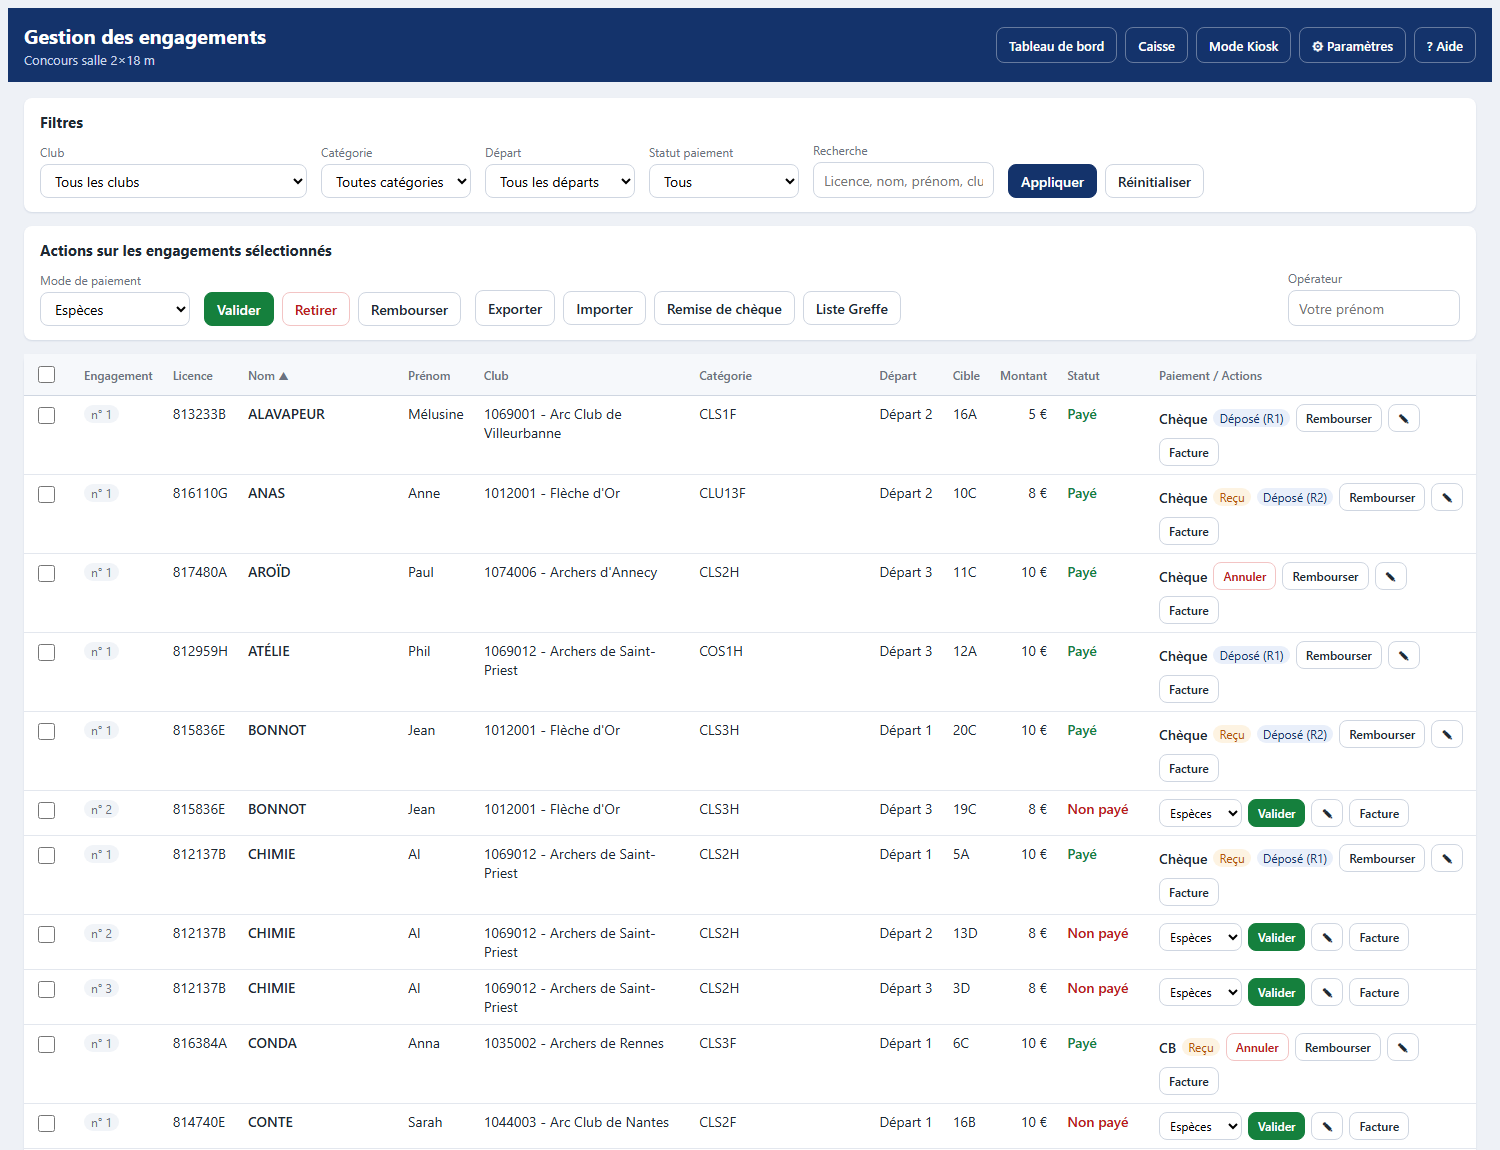
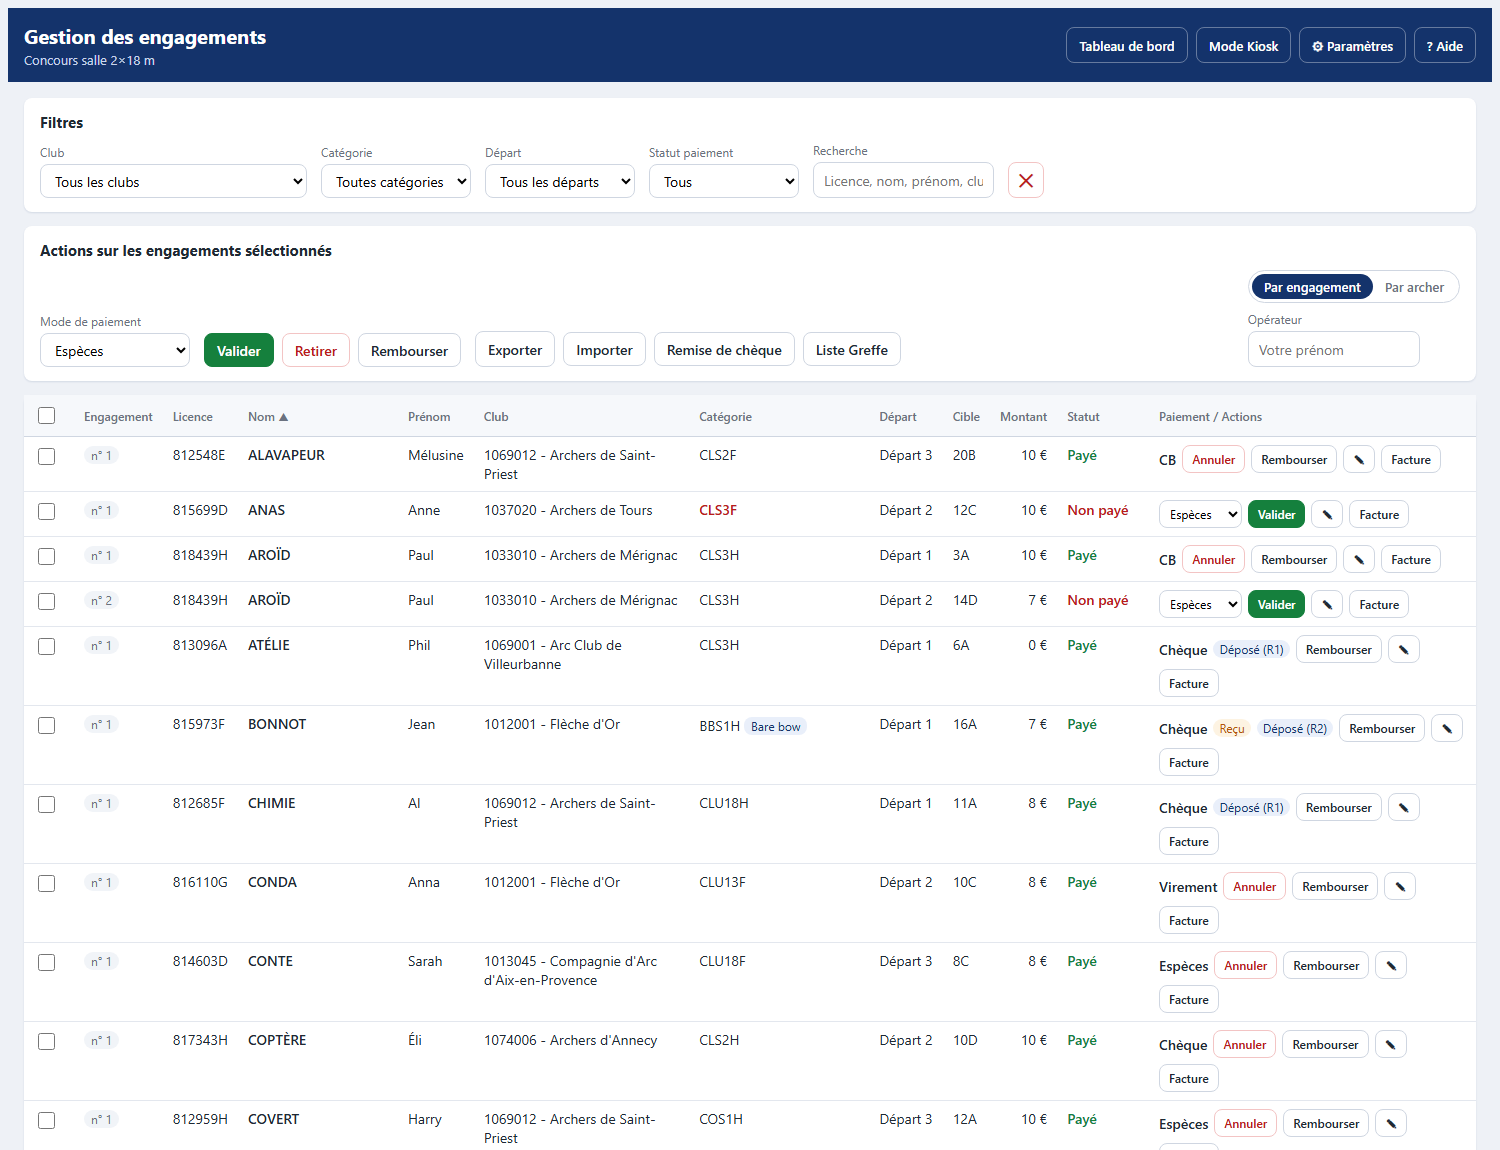
Version 1.2.4 : README et captures à jour, bouton + des tarifs toujours visible
- Version 1.2.4 (version.json, notes de mise à jour, README)
- README : nouvelle partie « Le passage au greffe », nouveautés 1.2.4,
  captures refaites (liste, vue par archer, tableau de bord, caisse, tarifs,
  aide) avec le concours fictif
- Tarifs : boutons + et - toujours affichés (+ grisé à la limite, avec
  explication) ; nombre de départs lu dans le concours, les sessions de
  qualification et les départs des archers

diff --git a/assets/css/config_tarifs.css b/assets/css/config_tarifs.css
@@ -220,8 +220,9 @@ body {
 .tarif-tier-buttons { width: 1%; white-space: nowrap; }
 
 .tarif-tier-btn {
-    width: 24px;
-    height: 24px;
+    width: 30px;
+    height: 30px;
+    font-size: 18px !important;
     padding: 0;
     border: 1px solid var(--line-strong, #cbd5e1);
     border-radius: 999px;
@@ -233,8 +234,9 @@ body {
     cursor: pointer;
 }
 
-.tarif-tier-btn:hover:not(:disabled) { background: #eef2ff; }
-.tarif-tier-btn:disabled { opacity: .35; cursor: default; }
+.tarif-tier-btn[data-tier-add]:not(:disabled) { background: #14336b; border-color: #14336b; color: #fff; }
+.tarif-tier-btn:hover:not(:disabled) { filter: brightness(1.15); }
+.tarif-tier-btn:disabled { opacity: .5; cursor: not-allowed; }
 
 .delete-btn {
     border: none;

diff --git a/assets/js/config_tarifs.js b/assets/js/config_tarifs.js
@@ -528,6 +528,9 @@ function initTarifTiers() {
 
         tables.querySelectorAll('[data-tier-add]').forEach(function(btn) {
             btn.disabled = tiers >= max;
+            btn.title = tiers >= max
+                ? 'Le concours compte ' + max + ' départs dans I@nseo : pas de départ de plus à tarifer'
+                : 'Ajouter un départ';
         });
 
         tables.querySelectorAll('[data-tier-remove]').forEach(function(btn) {

diff --git a/config_tarifs.php b/config_tarifs.php
@@ -794,9 +794,8 @@ include('Common/Templates/head.php');
             <div class="card-help">
                 Montants en euros. Chaque départ suivant est calculé comme :
                 <span class="chip">départs précédents + supplément</span>.
-                <?php if ($tarifMaxTiers > 2): ?>
-                    Le bouton <strong>+</strong> ajoute un départ avec son propre supplément, jusqu'aux <?php echo intval($tarifMaxTiers); ?> départs du concours.
-                <?php endif; ?>
+                Le bouton <strong>+</strong> ajoute un départ avec son propre supplément, jusqu'au nombre de départs du concours dans I@nseo
+                (<?php echo intval($tarifMaxTiers); ?> ici) ; le bouton <strong>−</strong> retire le dernier.
                 Au-delà du dernier départ du tableau, chaque départ coûte le dernier supplément.
             </div>
 
@@ -815,12 +814,10 @@ include('Common/Templates/head.php');
                                             <?php echo $i === 1 ? '1er départ' : ($i === 2 && $tarifMaxTiers === 2 ? 'Supplément' : 'Suppl. ' . $i . 'e départ'); ?>
                                         </th>
                                     <?php endfor; ?>
-                                    <?php if ($tarifMaxTiers > 2): ?>
-                                        <th class="tarif-tier-buttons">
-                                            <button type="button" class="tarif-tier-btn" data-tier-add title="Ajouter un départ" aria-label="Ajouter un départ">+</button>
-                                            <button type="button" class="tarif-tier-btn" data-tier-remove title="Retirer le dernier départ" aria-label="Retirer le dernier départ">−</button>
-                                        </th>
-                                    <?php endif; ?>
+                                    <th class="tarif-tier-buttons">
+                                        <button type="button" class="tarif-tier-btn" data-tier-add title="Ajouter un départ" aria-label="Ajouter un départ">+</button>
+                                        <button type="button" class="tarif-tier-btn" data-tier-remove title="Retirer le dernier départ" aria-label="Retirer le dernier départ">−</button>
+                                    </th>
                                     <th>Total <span data-tier-count><?php echo intval($tarifTiers); ?></span> départs</th>
                                 </tr>
                             </thead>
@@ -847,9 +844,7 @@ include('Common/Templates/head.php');
                                                 <input type="number" name="tarif[<?php echo $group; ?>][<?php echo $age; ?>][<?php echo $i; ?>]" value="<?php echo $steps[$i]; ?>" min="0" step="1" class="tarif-input" aria-label="<?php echo htmlspecialchars($groupLabel . ', ' . mb_strtolower($ageLabel) . ', ' . ($i === 1 ? '1er départ' : 'supplément du ' . $i . 'e départ')); ?>">
                                             </td>
                                         <?php endfor; ?>
-                                        <?php if ($tarifMaxTiers > 2): ?>
-                                            <td></td>
-                                        <?php endif; ?>
+                                        <td></td>
                                         <td class="tarif-row-total"><span data-tarif-total><?php echo $total; ?></span> €</td>
                                     </tr>
                                 <?php endforeach; ?>

diff --git a/lib/registrarc.inc.php b/lib/registrarc.inc.php
@@ -194,7 +194,9 @@ function registrarc_get_tournament_info($TourId) {
     ];
 
     $query = "
-        SELECT ToCommitee, ToComDescr, ToName, ToWhere, ToWhenFrom, ToWhenTo, ToNumSession
+        SELECT ToCommitee, ToComDescr, ToName, ToWhere, ToWhenFrom, ToWhenTo, ToNumSession,
+            (SELECT MAX(SesOrder) FROM Session WHERE SesTournament = ToId AND SesType = 'Q') AS SesMax,
+            (SELECT MAX(QuSession) FROM Qualifications INNER JOIN Entries ON EnId = QuId WHERE EnTournament = ToId) AS QuMax
         FROM Tournament
         WHERE ToId = $TourId
     ";
@@ -209,8 +211,13 @@ function registrarc_get_tournament_info($TourId) {
         $data['when_label'] = registrarc_tournament_date_string($row->ToWhenFrom, $row->ToWhenTo);
         $data['organizer_code'] = $row->ToCommitee;
         $data['organizer_name'] = $row->ToComDescr;
-        // Nombre de départs déclarés dans I@nseo (informations du concours)
-        $data['sessions'] = isset($row->ToNumSession) ? intval($row->ToNumSession) : 0;
+        // Nombre de départs du concours dans I@nseo : le plus grand entre le nombre
+        // déclaré (ToNumSession), les sessions de qualification et les départs des archers
+        $data['sessions'] = max(
+            isset($row->ToNumSession) ? intval($row->ToNumSession) : 0,
+            isset($row->SesMax) ? intval($row->SesMax) : 0,
+            isset($row->QuMax) ? intval($row->QuMax) : 0
+        );
 
         if (empty($data['organizer_name']) && $data['organizer_code']) {
             $organizerNameQuery = "

diff --git a/tests/test_tarifs.php b/tests/test_tarifs.php
@@ -62,6 +62,16 @@ test('tarifs : paliers alignés, palier manquant = supplément précédent', fun
     assert_same(registrarc_default_tarifs(), registrarc_normalize_tarifs(null));
 });
 
+test('nombre de départs du concours : le plus grand des sources I@nseo', function () {
+    assert_same(3, registrarc_get_tournament_info(1)['sessions'], 'ToNumSession');
+
+    // ToNumSession pas à jour : les sessions de qualification ou les départs des archers comptent
+    $GLOBALS['test_db']['tournament']->ToNumSession = 0;
+    $GLOBALS['test_db']['tournament']->SesMax = 4;
+    $GLOBALS['test_db']['tournament']->QuMax = 2;
+    assert_same(4, registrarc_get_tournament_info(1)['sessions']);
+});
+
 test('règle catégorie à prix fixe', function () {
     $rules = [['active' => true, 'scope' => 'categorie', 'match' => ['BB'], 'label' => 'Bare bow', 'action' => ['type' => 'fixed_price', 'value' => 6]]];
 

diff --git a/README.md b/README.md
@@ -4,7 +4,7 @@
 
 <p align="center">
   <img src="https://img.shields.io/badge/module-I%40nseo-14336b" alt="Module I@nseo">
-  <img src="https://img.shields.io/badge/version-1.2.3-14336b" alt="Version 1.2.3">
+  <img src="https://img.shields.io/badge/version-1.2.4-14336b" alt="Version 1.2.4">
   <img src="https://img.shields.io/badge/langue-fran%C3%A7ais-14336b" alt="En français">
   <img src="https://img.shields.io/badge/tir%20%C3%A0%20l'arc-greffe-e3242b" alt="Tir à l'arc, greffe">
 </p>
@@ -67,7 +67,7 @@
   <tr>
     <td width="50%" valign="top">
       <strong>La liste des inscrits</strong><br>
-      Tous les archers du concours, avec ce que chacun doit payer pour chacun de ses départs.
+      Tous les archers du concours, avec ce que chacun doit payer pour chacun de ses départs, et leur passage au greffe pointé départ par départ.
     </td>
     <td width="50%" valign="top">
       <strong>L'encaissement</strong><br>
@@ -120,6 +120,16 @@ RegistrArc ne modifie jamais les inscriptions dans I@nseo : il les lit et garde 
 
 ## Nouveautés de la version 1.2
 
+Version 1.2.4 :
+
+- **Passage au greffe** : la liste a une vue **par archer** pour pointer les archers qui se présentent, départ par départ, avec leur cible, leur blason et le nombre d'archers restant à passer. Voir [le passage au greffe](#le-passage-au-greffe).
+- **Recherche en direct** dans la liste, **croix rouge** pour tout réinitialiser, et « ; » pour afficher plusieurs archers à la fois.
+- **Fond de caisse**, détaillé par pièces et billets ou en un seul montant. La **caisse** est maintenant dans le tableau de bord, page **Trésorier**.
+- **Tarif dégressif** : un supplément différent pour chaque départ, ajouté avec le bouton **+**. Le club organisateur est gratuit par défaut, et la majoration pour inscription tardive est supprimée.
+- **Archers surclassés** aussi signalés en rouge dans la liste.
+
+Depuis la version 1.2.0 :
+
 - **Aide intégrée** : ce mode d'emploi s'ouvre dans le module avec le bouton **? Aide**, même sans internet, avec un sommaire sur la droite qui suit la lecture.
 - **Tableau de bord en trois pages** : Greffe, Trésorier et Terrain, avec des chiffres clés, des graphiques interactifs, les points à vérifier signalés ⚠ et un filtre par départ.
 - **Carte des clubs** : une bulle par club, placée sur sa ville, avec la page **Villes des clubs** pour corriger.
@@ -134,7 +144,7 @@ RegistrArc ne modifie jamais les inscriptions dans I@nseo : il les lit et garde 
 |:-:|---|---|
 | **1** | Une fois pour toutes | [Installer le module](#installer-le-module) |
 | **2** | Avant le concours | [Régler les tarifs et les modes de paiement](#régler-les-tarifs-et-les-paiements) |
-| **3** | Pendant le concours | Encaisser [à l'ordinateur](#encaisser-à-lordinateur) ou [sur un téléphone](#encaisser-sur-un-téléphone) |
+| **3** | Pendant le concours | [Pointer les archers au greffe](#le-passage-au-greffe), encaisser [à l'ordinateur](#encaisser-à-lordinateur) ou [sur un téléphone](#encaisser-sur-un-téléphone) |
 | **4** | Après le concours | [Clôturer la caisse](#la-caisse), [faire les factures](#faire-une-facture), [déposer les chèques](#préparer-la-remise-de-chèques), puis [clôturer le concours](#le-tableau-de-bord) |
 
 > [!TIP]
@@ -197,7 +207,7 @@ Pour les archers du club organisateur et pour ceux des autres clubs, jeunes et a
 - le prix du **1er départ** ;
 - le **supplément** à payer pour le **2e départ**, et si besoin pour le 3e, le 4e… (tarif dégressif).
 
-Le petit bouton **+** ajoute une colonne pour le départ suivant, avec son propre supplément. On peut en ajouter jusqu'au nombre de départs du concours déclaré dans I@nseo. Le bouton **−** retire la dernière colonne. Au-delà du dernier départ du tableau, chaque départ coûte le dernier supplément. La colonne **Total** se met à jour pendant la saisie.
+Le bouton bleu **+** ajoute une colonne pour le départ suivant, avec son propre supplément. On peut en ajouter jusqu'au nombre de départs du concours dans I@nseo (rappelé au-dessus du tableau) ; une fois ce nombre atteint, le **+** devient gris. Le bouton **−** retire la dernière colonne. Au-delà du dernier départ du tableau, chaque départ coûte le dernier supplément. La colonne **Total** se met à jour pendant la saisie.
 
 Exemple avec les prix proposés au départ (un seul supplément, répété à chaque départ). Le club organisateur est **gratuit** par défaut, jeunes et adultes :
 
@@ -294,13 +304,29 @@ C'est l'écran principal (voir l'aperçu en haut de cette page). Chaque ligne es
 
 - **Chercher un archer** : par club, catégorie, départ, état du paiement (payés, non payés, gratuits, remboursés) ou en tapant un nom, une licence, un club. La liste se met à jour au fil de la frappe, sans bouton à cliquer. Pour afficher **plusieurs archers à la fois**, séparez les recherches par un point-virgule : `terrieur ; 812137B ; dupont` affiche ces trois archers. Il suffit ensuite de les cocher pour les encaisser ou les facturer ensemble. La **croix rouge** ✕ remet tous les filtres à zéro.
 - **Trier** : cliquez sur le titre d'une colonne ; cliquez à nouveau pour inverser l'ordre.
-- **Vue par engagement ou par archer** : l'interrupteur au-dessus du champ **Opérateur** change la présentation de la liste. La vue **par engagement** montre une ligne par départ, avec le paiement. La vue **par archer** montre une ligne par archer (licence, nom, prénom, club, catégorie) et une colonne par départ :
-  - **-** : l'archer ne tire pas ce départ ;
-  - **✕ rouge** : il n'est pas encore passé au greffe. Un clic sur la croix le pointe ;
-  - **✓ vert** : il est passé au greffe. Son numéro de cible et son blason s'affichent dessous (blason en rouge s'il n'est pas celui de sa catégorie). Un clic sur la coche annule le pointage.
+- **Vue par engagement ou par archer** : l'interrupteur au-dessus du champ **Opérateur** change la présentation de la liste. La vue **par engagement** (une ligne par départ, avec le paiement) sert à encaisser ; la vue **par archer** sert à suivre le [passage au greffe](#le-passage-au-greffe).
+- **Repères** : « Archer non affecté » signale un archer sans cible ; une étiquette violette indique un prix spécial ; une catégorie en rouge signale un archer **surclassé** (au survol : « Surclassé : U15F > U18F »).
 
-  Pour savoir où en est l'accueil de chaque départ : sous le titre du départ, une pastille indique les **archers encore à passer au greffe** sur ceux attendus (par exemple **8/25**, en rouge), puis **✓ 25** en vert quand tout le monde est passé. Ces chiffres tiennent compte des filtres : avec le filtre **Départ**, on suit un seul départ. Les filtres et la recherche marchent dans les deux vues. Pour encaisser, revenez à la vue par engagement.
-- **Repères** : « Archer non affecté » signale un archer sans cible ; une étiquette violette indique un prix spécial.
+</details>
+
+### Le passage au greffe
+
+<details>
+<summary><strong>Pointer les archers qui se présentent</strong></summary>
+
+<br>
+
+<img src="docs/images/liste-par-archer.png" alt="Vue par archer : passage au greffe" width="100%">
+
+Choisissez **Par archer** avec l'interrupteur au-dessus du champ **Opérateur**. La liste montre une ligne par archer (licence, nom, prénom, club, catégorie) et une colonne par départ :
+
+- **-** : l'archer ne tire pas ce départ ;
+- **✕ rouge** : il n'est pas encore passé au greffe. Un clic sur la croix le pointe ;
+- **✓ vert** : il est passé au greffe. Son numéro de cible et son blason s'affichent dessous (blason en rouge s'il n'est pas celui de sa catégorie). Un clic sur la coche annule le pointage.
+
+Sous le titre de chaque départ, une pastille indique les **archers encore à passer au greffe** sur ceux attendus (par exemple **8/23**, en rouge), puis **✓ 23** en vert quand tout le monde est passé. Ces chiffres tiennent compte des filtres : avec le filtre **Départ**, on suit un seul départ. La recherche marche aussi (avec « ; » pour plusieurs archers).
+
+Pour encaisser, revenez à la vue **Par engagement**.
 
 </details>
 
@@ -669,7 +695,7 @@ Le concours a été clôturé depuis le tableau de bord. Rouvrez-le au même end
 
 <br>
 
-Elle est indiquée en petit, en bas à droite de la page **⚙ Paramètres** (par exemple « RegistrArc 1.2.3 »), et dans le sous-titre de la page d'aide.
+Elle est indiquée en petit, en bas à droite de la page **⚙ Paramètres** (par exemple « RegistrArc 1.2.4 »), et dans le sous-titre de la page d'aide.
 
 </details>
 
